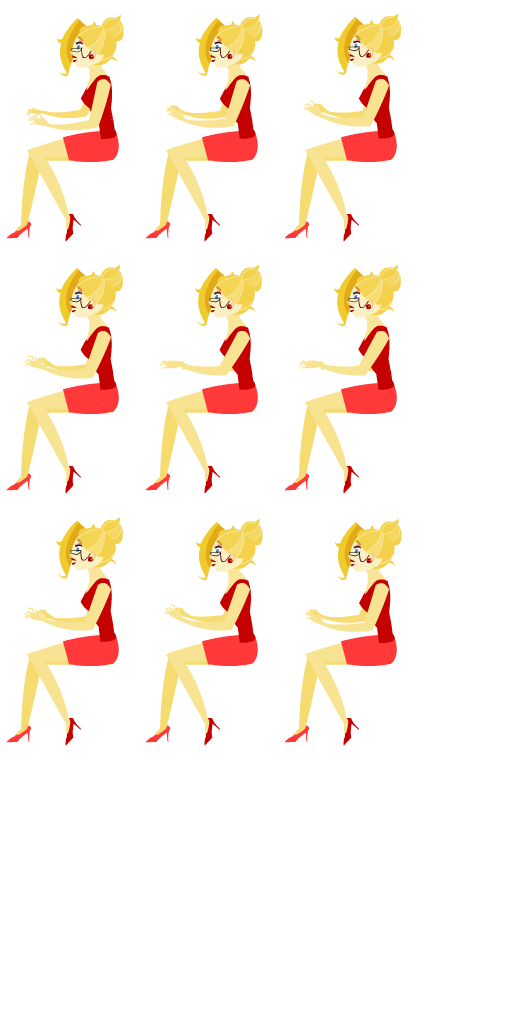
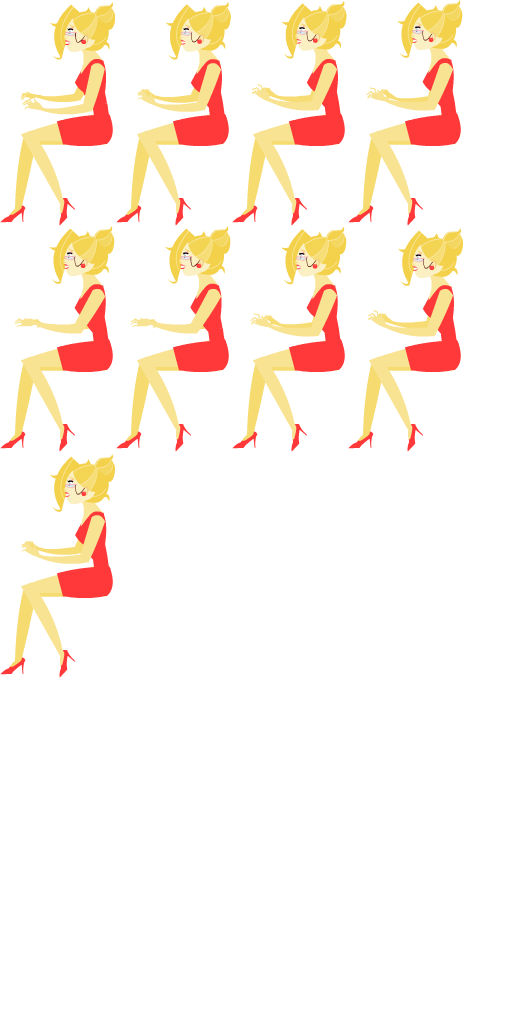
Revert "jauege update"
This reverts commit b94a52ab74b1c1868634989d4c32f0ee815ddf29.

diff --git a/Projet/Sources/js/states.js b/Projet/Sources/js/states.js
@@ -41,15 +41,13 @@ WD_begin.prototype = {
 		game.load.image('tache_telephone_yellow', 'Projet/Sources/assets/stress_jaune.png');
 
 		game.load.image('picto_concentration', 'Projet/Sources/assets/picto_focus.png');
-		game.load.image('picto_dodo', 'Projet/Sources/assets/picto_dodo.png');
+		game.load.image('picto_sommeil', 'Projet/Sources/assets/picto_dodo.png');
 		game.load.image('picto_stress', 'Projet/Sources/assets/picto_stress.png');
 		
 		game.load.image('bonus_cafe', 'Projet/Sources/assets/sommeil_power_up.png');
 		game.load.image('bonus_clope', 'Projet/Sources/assets/stress_power_up.png');
 		game.load.image('bonus_pillule', 'Projet/Sources/assets/concentration_power_up.png');
-				
-		game.load.image('employee_trainee', 'Projet/Sources/assets/employee_trainee.png');
-		
+
 		game.load.image('jauge_secretary_concentration', 'Projet/Sources/assets/jauge_fille_focus_01.png');
 		game.load.image('jauge_secretary_sommeil', 'Projet/Sources/assets/jauge_fille_dodo_02.png');
 		game.load.image('jauge_secretary_stress', 'Projet/Sources/assets/jauge_fille_stress_03.png');
@@ -64,6 +62,8 @@ WD_begin.prototype = {
 
 		game.load.image('jauge_boss_production', 'Projet/Sources/assets/jauge_boss_production.png');
 		game.load.image('jauge_boss_stress', 'Projet/Sources/assets/jauge_boss_stress.png');
+				
+		game.load.image('employee_trainee', 'Projet/Sources/assets/employee_trainee.png');
 
 		game.load.image('employee_secretary1', 'Projet/Sources/assets/employee_secretary/bureau_rouge0001.png');
 		game.load.image('employee_secretary2', 'Projet/Sources/assets/employee_secretary/bureau_rouge0002.png');
@@ -74,10 +74,10 @@ WD_begin.prototype = {
 		game.load.image('employee_secretaryFront2', 'Projet/Sources/assets/employee_secretary/premier_plan0002.png');
 		game.load.image('employee_secretaryFront3', 'Projet/Sources/assets/employee_secretary/premier_plan0003.png');
 		game.load.image('employee_secretaryFront4', 'Projet/Sources/assets/employee_secretary/premier_plan0004.png');
-		game.load.spritesheet('employee_secretaryPerso1', 'Projet/Sources/assets/employee_secretary/Fille/fille1.png',136,249,24,0,3);
-		game.load.spritesheet('employee_secretaryPerso2', 'Projet/Sources/assets/employee_secretary/Fille/fille2.png',136,249,24,0,3);
-		game.load.spritesheet('employee_secretaryPerso3', 'Projet/Sources/assets/employee_secretary/Fille/fille3.png',136,249,9,0,3);
-		game.load.spritesheet('employee_secretaryPerso4', 'Projet/Sources/assets/employee_secretary/Fille/fille4.png',136,249,8,0,3);
+		game.load.spritesheet('employee_secretaryPerso1', 'Projet/Sources/assets/employee_secretary/Fille/fille1.png',126,232,24);
+		game.load.spritesheet('employee_secretaryPerso2', 'Projet/Sources/assets/employee_secretary/Fille/fille2.png',120,221,24);
+		game.load.spritesheet('employee_secretaryPerso3', 'Projet/Sources/assets/employee_secretary/Fille/fille3.png',118,228,9,0,-2);
+		game.load.spritesheet('employee_secretaryPerso4', 'Projet/Sources/assets/employee_secretary/Fille/fille4.png',116,227,8,0,-1);
 
 		game.load.image('employee_sedentary', 'Projet/Sources/assets/employee_sedentary.png');
 

diff --git a/Projet/Sources/js/employee.js b/Projet/Sources/js/employee.js
@@ -15,10 +15,6 @@ function Employee (game,pos,type,color) {
 	else
 		this.sprite = game.add.sprite(pos[0],pos[1],this.type,0);
 
-	this.jauge_concentration = game.add.sprite(-1000, 480, "jauge_"+type+"_concentration");
-	this.jauge_fatigue = game.add.sprite(-1000, 495, "jauge_"+type+"_sommeil");
-	this.jauge_stress = game.add.sprite(-1000, 510, "jauge_"+type+"_stress");
-
 
 	for(var attribute in game.config.employees[type]) 
 		this[attribute] = game.config.employees[type][attribute];
@@ -40,22 +36,11 @@ Employee.prototype.update = function(game) {
 		};
 		totalAttributes = 0
 
-	if (!this.sucetteALaViande) { // MANGE TON EASTER EGG !
-		this.sucetteALaViande = true;
-		this.jauge_concentration.x = this.sprite.x+this.sprite.width*0.25 ;
-		this.jauge_fatigue.x = this.sprite.x+this.sprite.width*0.25;
-		this.jauge_stress.x = this.sprite.x+this.sprite.width*0.25;
-		game.add.sprite(this.sprite.x+this.sprite.width*0.19, 472+7, "picto_concentration");
-		game.add.sprite(this.sprite.x+this.sprite.width*0.19, 488+7, "picto_dodo");
-		game.add.sprite(this.sprite.x+this.sprite.width*0.19, 502+7, "picto_stress");
-	};
-
 	for(attribute in game.config.employees[this.type.substr(9)]){
 		if (this[attribute] > game.config.maxCaract)
 			this[attribute] = game.config.maxCaract
-			totalAttributes += this[attribute];
-			this["jauge_"+attribute].scale.x = this[attribute]/game.config.maxCaract;
-		};
+		totalAttributes += this[attribute];
+	}
 	if (totalAttributes <= 100)
 		this.levelStress = 1;
 	if (totalAttributes > 100) 
@@ -64,11 +49,6 @@ Employee.prototype.update = function(game) {
 		this.levelStress = 3;
 	if (totalAttributes > 200)
 		this.levelStress = 4;
-
-	
-
-
-
 
 	for (var i = game.taches.length - 1; i >= 0; i--) {
 		if (game.taches[i].sprite.input.isDragged == false) {

diff --git a/Projet/Sources/js/main.js b/Projet/Sources/js/main.js
@@ -50,6 +50,18 @@ WD_game.prototype = {
 		game.add.sprite(50, 10, "jauge_boss_production");
 		game.add.sprite(50, 30, "jauge_boss_stress");
 
+		game.add.sprite(150, 480, "jauge_secretary_concentration");
+		game.add.sprite(150, 495, "jauge_secretary_sommeil");
+		game.add.sprite(150, 510, "jauge_secretary_stress");
+
+		game.add.sprite(470, 480, "jauge_sedentary_concentration");
+		game.add.sprite(470, 495, "jauge_sedentary_sommeil");
+		game.add.sprite(470, 510, "jauge_sedentary_stress");
+
+		game.add.sprite(790, 480, "jauge_trainee_concentration");
+		game.add.sprite(790, 495, "jauge_trainee_sommeil");
+		game.add.sprite(790, 510, "jauge_trainee_stress");
+
 		game.add.sprite(1185, 200, "horloge").anchor.setTo(0.5, 0.5);
 		game.petiteAiguille = game.add.sprite(1185, 200, "horloge_petite_aiguille");
 		game.petiteAiguille.anchor.setTo(0.5, 0.5);
@@ -89,6 +101,10 @@ WD_game.prototype = {
 
 		for (var i = 3 - 1; i >= 0; i--) {
 			game.employees.push(new Employee(game,[20,75],nbEmployees[i], nbColors[i]));
+
+			game.add.sprite(130+i*320, 472, "picto_concentration");
+			game.add.sprite(130+i*320, 488, "picto_sommeil");
+			game.add.sprite(130+i*320, 502, "picto_stress");
 		};
 		for (var i = game.employees.length - 1; i >= 0; i--) {
 			game.employees[i].sprite.x += i*(game.employees[i].sprite.width-27);
